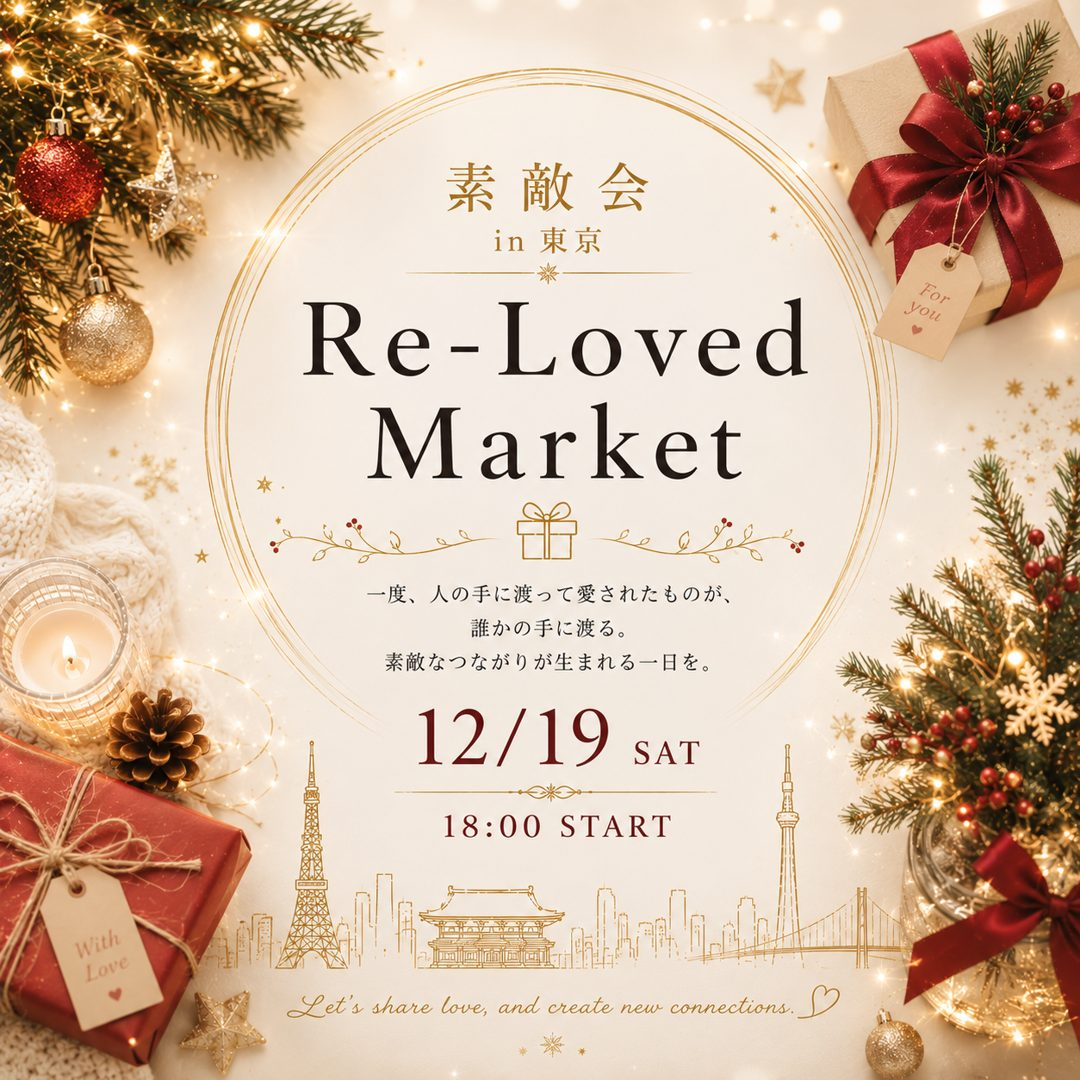
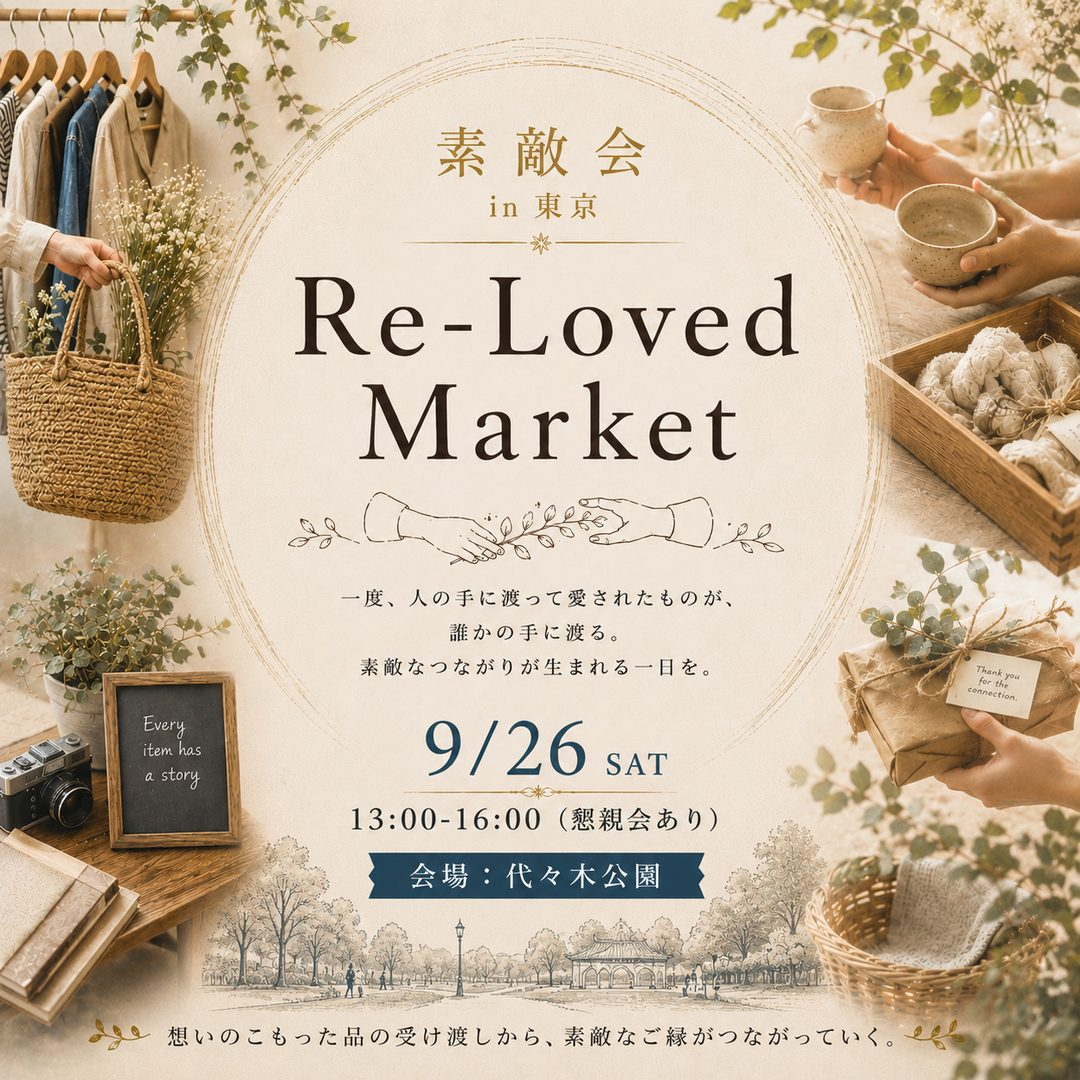
Add files via upload

diff --git a/index.html b/index.html
@@ -518,6 +518,23 @@ body.op-lock{ overflow:hidden; }
         </div>
       </article>
 
+      <!-- 9/26 Re-Loved Market -->
+      <article class="event-card hover-lift reveal" data-end="2026-09-26" data-form="reloved">
+        <div class="event-photo">
+          <img src="event-reloved.jpg" alt="素敵会「Re-Loved Market」 9月26日(土)13:00開催の告知" loading="lazy">
+        </div>
+        <div class="event-body">
+          <p class="event-date">2026.09.26 SAT 13:00-16:00<span class="event-place">代々木公園</span></p>
+          <h3 class="event-name">素敵会「Re-Loved Market」</h3>
+          <p class="event-desc">
+            “Re-Loved” ― 一度、人の手に渡って愛されたもの。
+            その品を次の誰かへ手渡すマーケットをつくり、想いとモノが循環する一日を。
+            懇親会もあります。
+          </p>
+          <div class="event-actions"></div>
+        </div>
+      </article>
+
       <!-- 10/3 The Table -->
       <article class="event-card hover-lift reveal" data-end="2026-10-03" data-form="thetable">
         <div class="event-photo">
@@ -550,17 +567,17 @@ body.op-lock{ overflow:hidden; }
         </div>
       </article>
 
-      <!-- 12/19 Re-Loved Market -->
-      <article class="event-card hover-lift reveal" data-end="2026-12-19" data-form="reloved">
+      <!-- 12/19 Candle Night -->
+      <article class="event-card hover-lift reveal" data-end="2026-12-19" data-form="candle">
         <div class="event-photo">
-          <img src="event-reloved.jpg" alt="素敵会「Re-Loved Market」 12月19日(土)18:00開催の告知" loading="lazy">
+          <img src="event-candle.jpg" alt="Candle Night会 KATARAW × こよりび 12月19日(土)18:00開催の告知" loading="lazy">
         </div>
         <div class="event-body">
           <p class="event-date">2026.12.19 SAT 18:00-<span class="event-place">東京</span></p>
-          <h3 class="event-name">素敵会「Re-Loved Market」</h3>
+          <h3 class="event-name">Candle Night 会<br><span style="font-size:.72em; color:var(--sumi-soft); letter-spacing:.18em;">KATARAW × こよりび</span></h3>
           <p class="event-desc">
-            “Re-Loved” ― 誰かの手に一度渡り、愛されたもの。
-            その大切なものを次に繋げるマーケットをつくり、想いとモノが循環する一日を。
+            ロウソクの炎は、他に分け与えても小さくならず、むしろ増幅していく。
+            この想いと優しさの循環という価値観に共感し、和ロウソクブランド「KATARAW」様とのコラボレーションが実現しました。
           </p>
           <div class="event-actions"></div>
         </div>
@@ -718,10 +735,11 @@ body.op-lock{ overflow:hidden; }
    ========================================================== */
 const INSTAGRAM_URL = "https://www.instagram.com/koyoribi.jp/";
 const FORM_URLS = {
-  meguri:   "",   // 素敵会 in 大阪「巡」
-  thetable: "",   // The Table
-  itto:     "",   // 素敵会「一燈」
-  reloved:  ""    // Re-Loved Market
+  meguri:   "",                                        // 素敵会 in 大阪「巡」(終了)
+  reloved:  "https://forms.gle/TMxtcoh9XQYoAy8n7",     // 9/26 Re-Loved Market
+  thetable: "https://forms.gle/kho9nQnjiByUxL7MA",     // 10/3 The Table
+  itto:     "https://forms.gle/e2QnaVuAitPbPbMz9",     // 11/21 一燈
+  candle:   "https://forms.gle/eUChkCciPBBHGUnz7"      // 12/19 Candle Night
 };
 /* ========================================================== */
 
